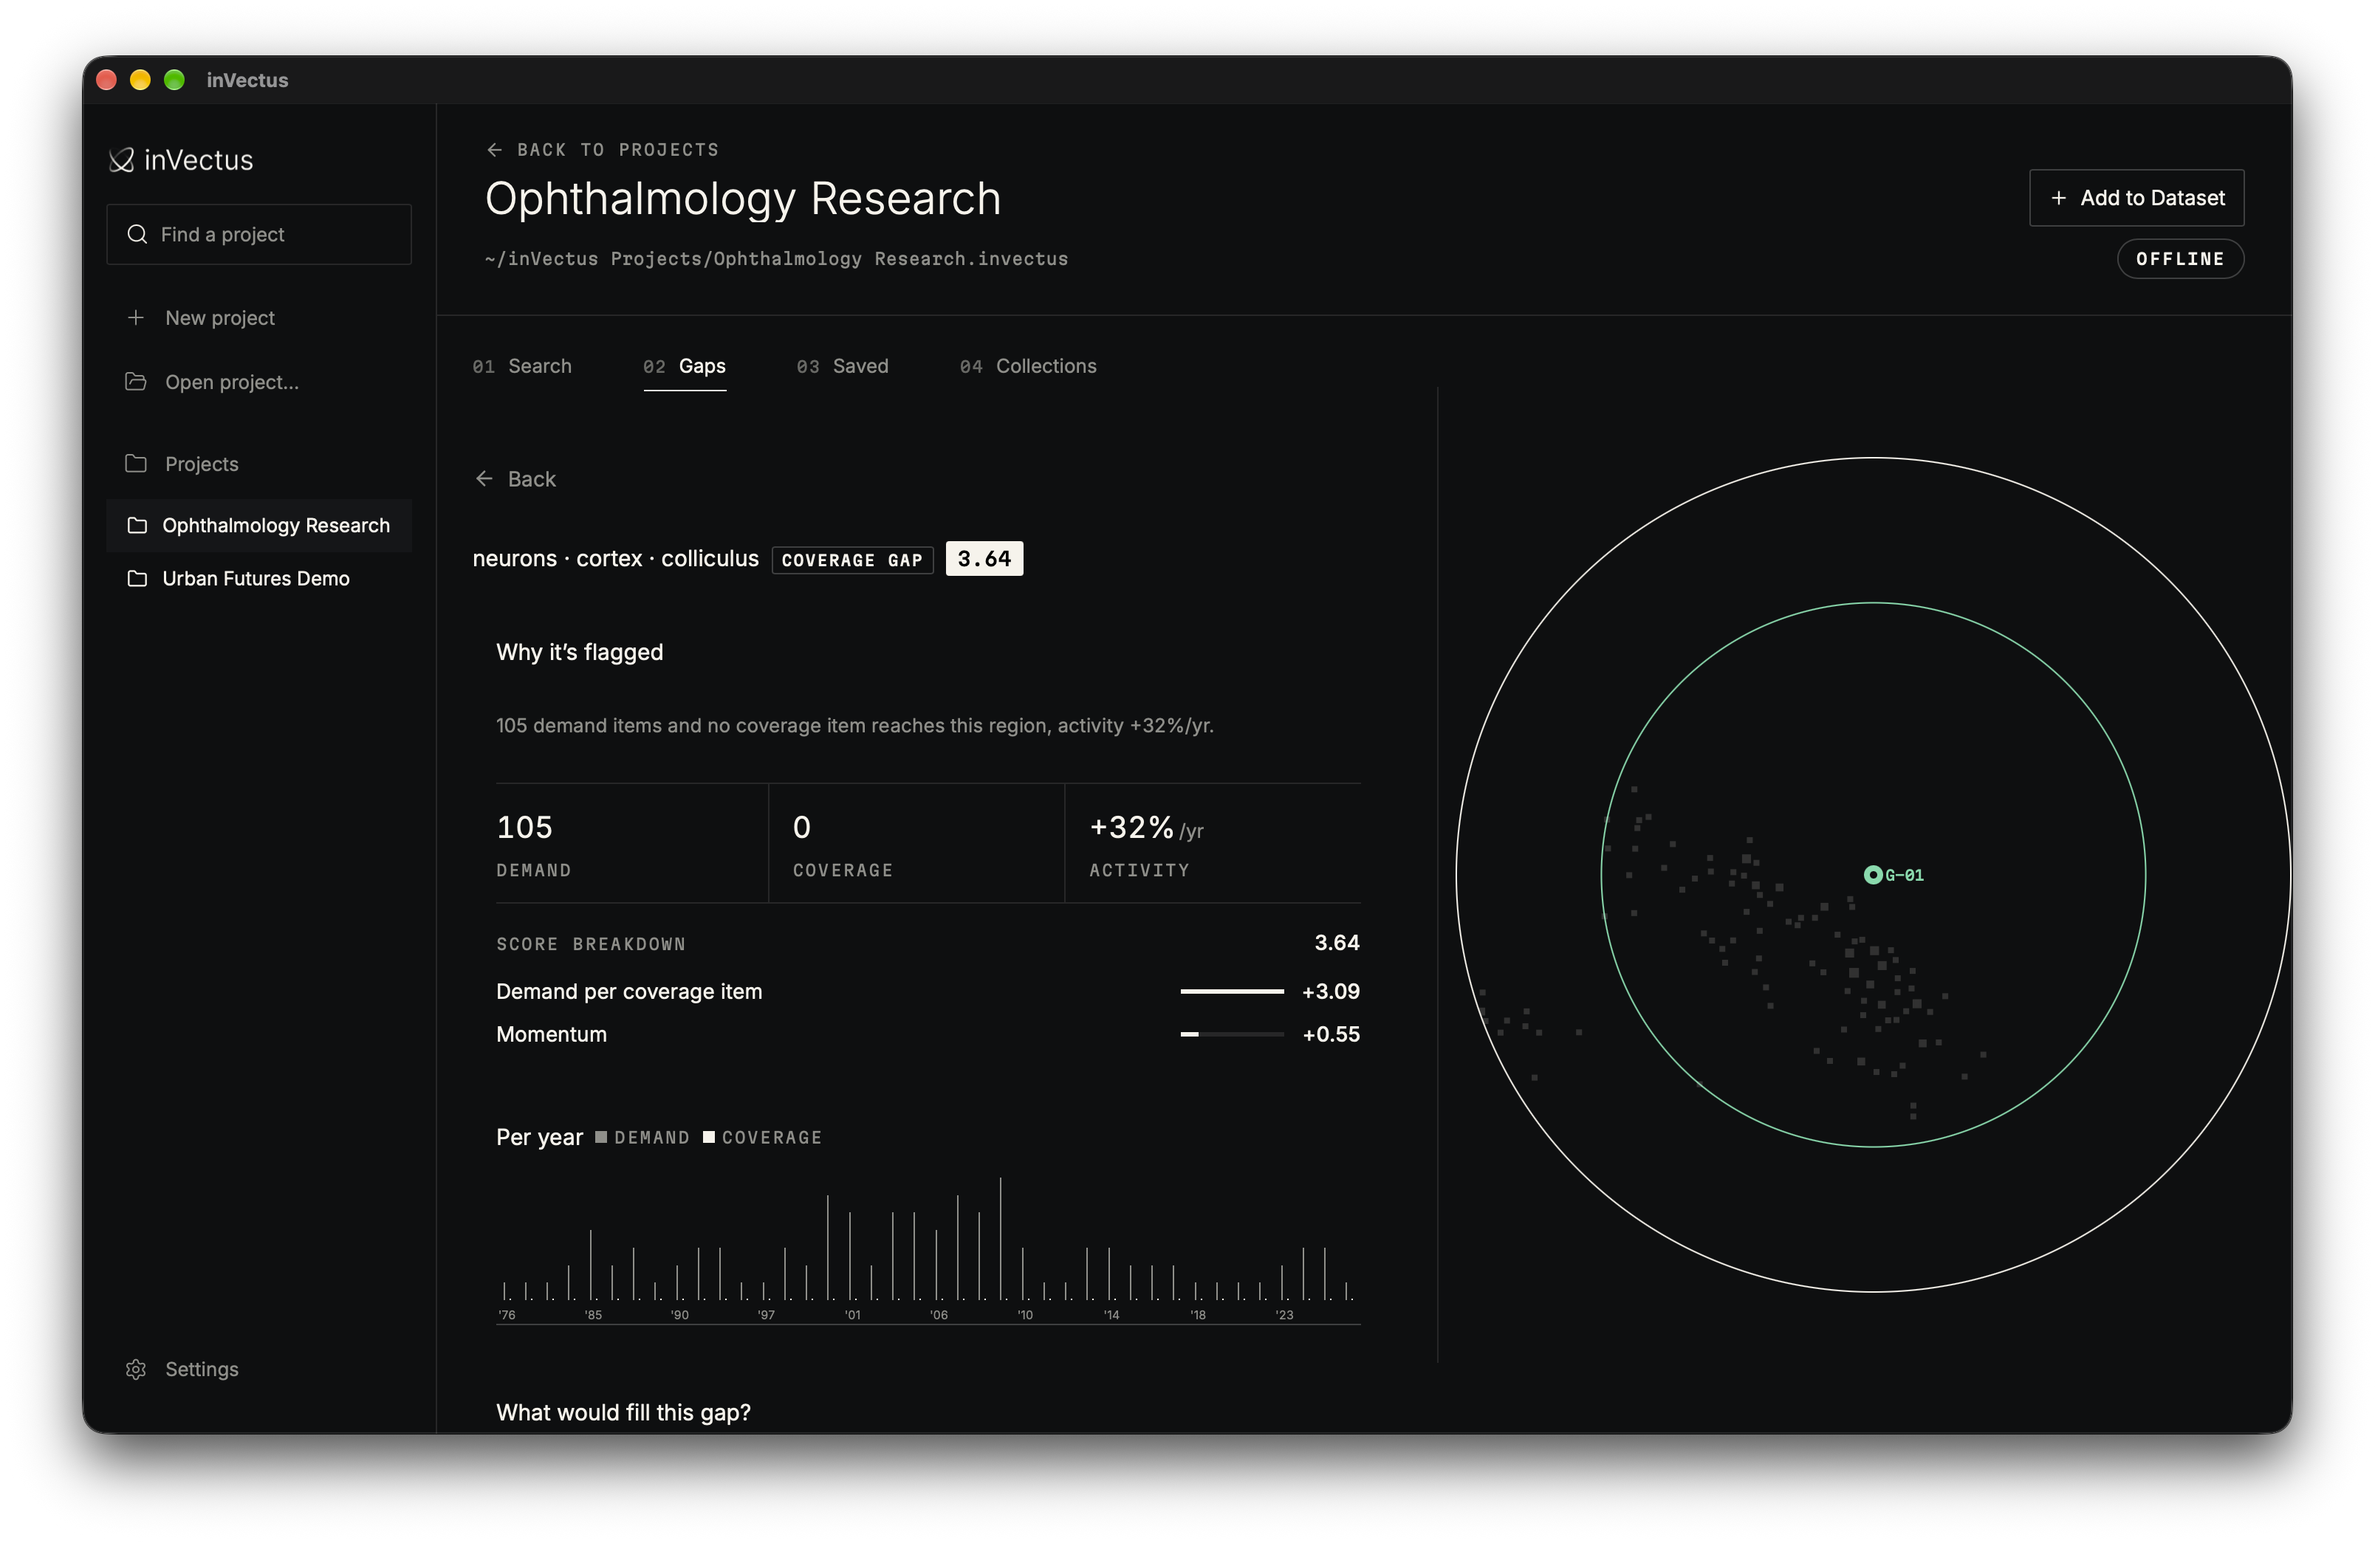
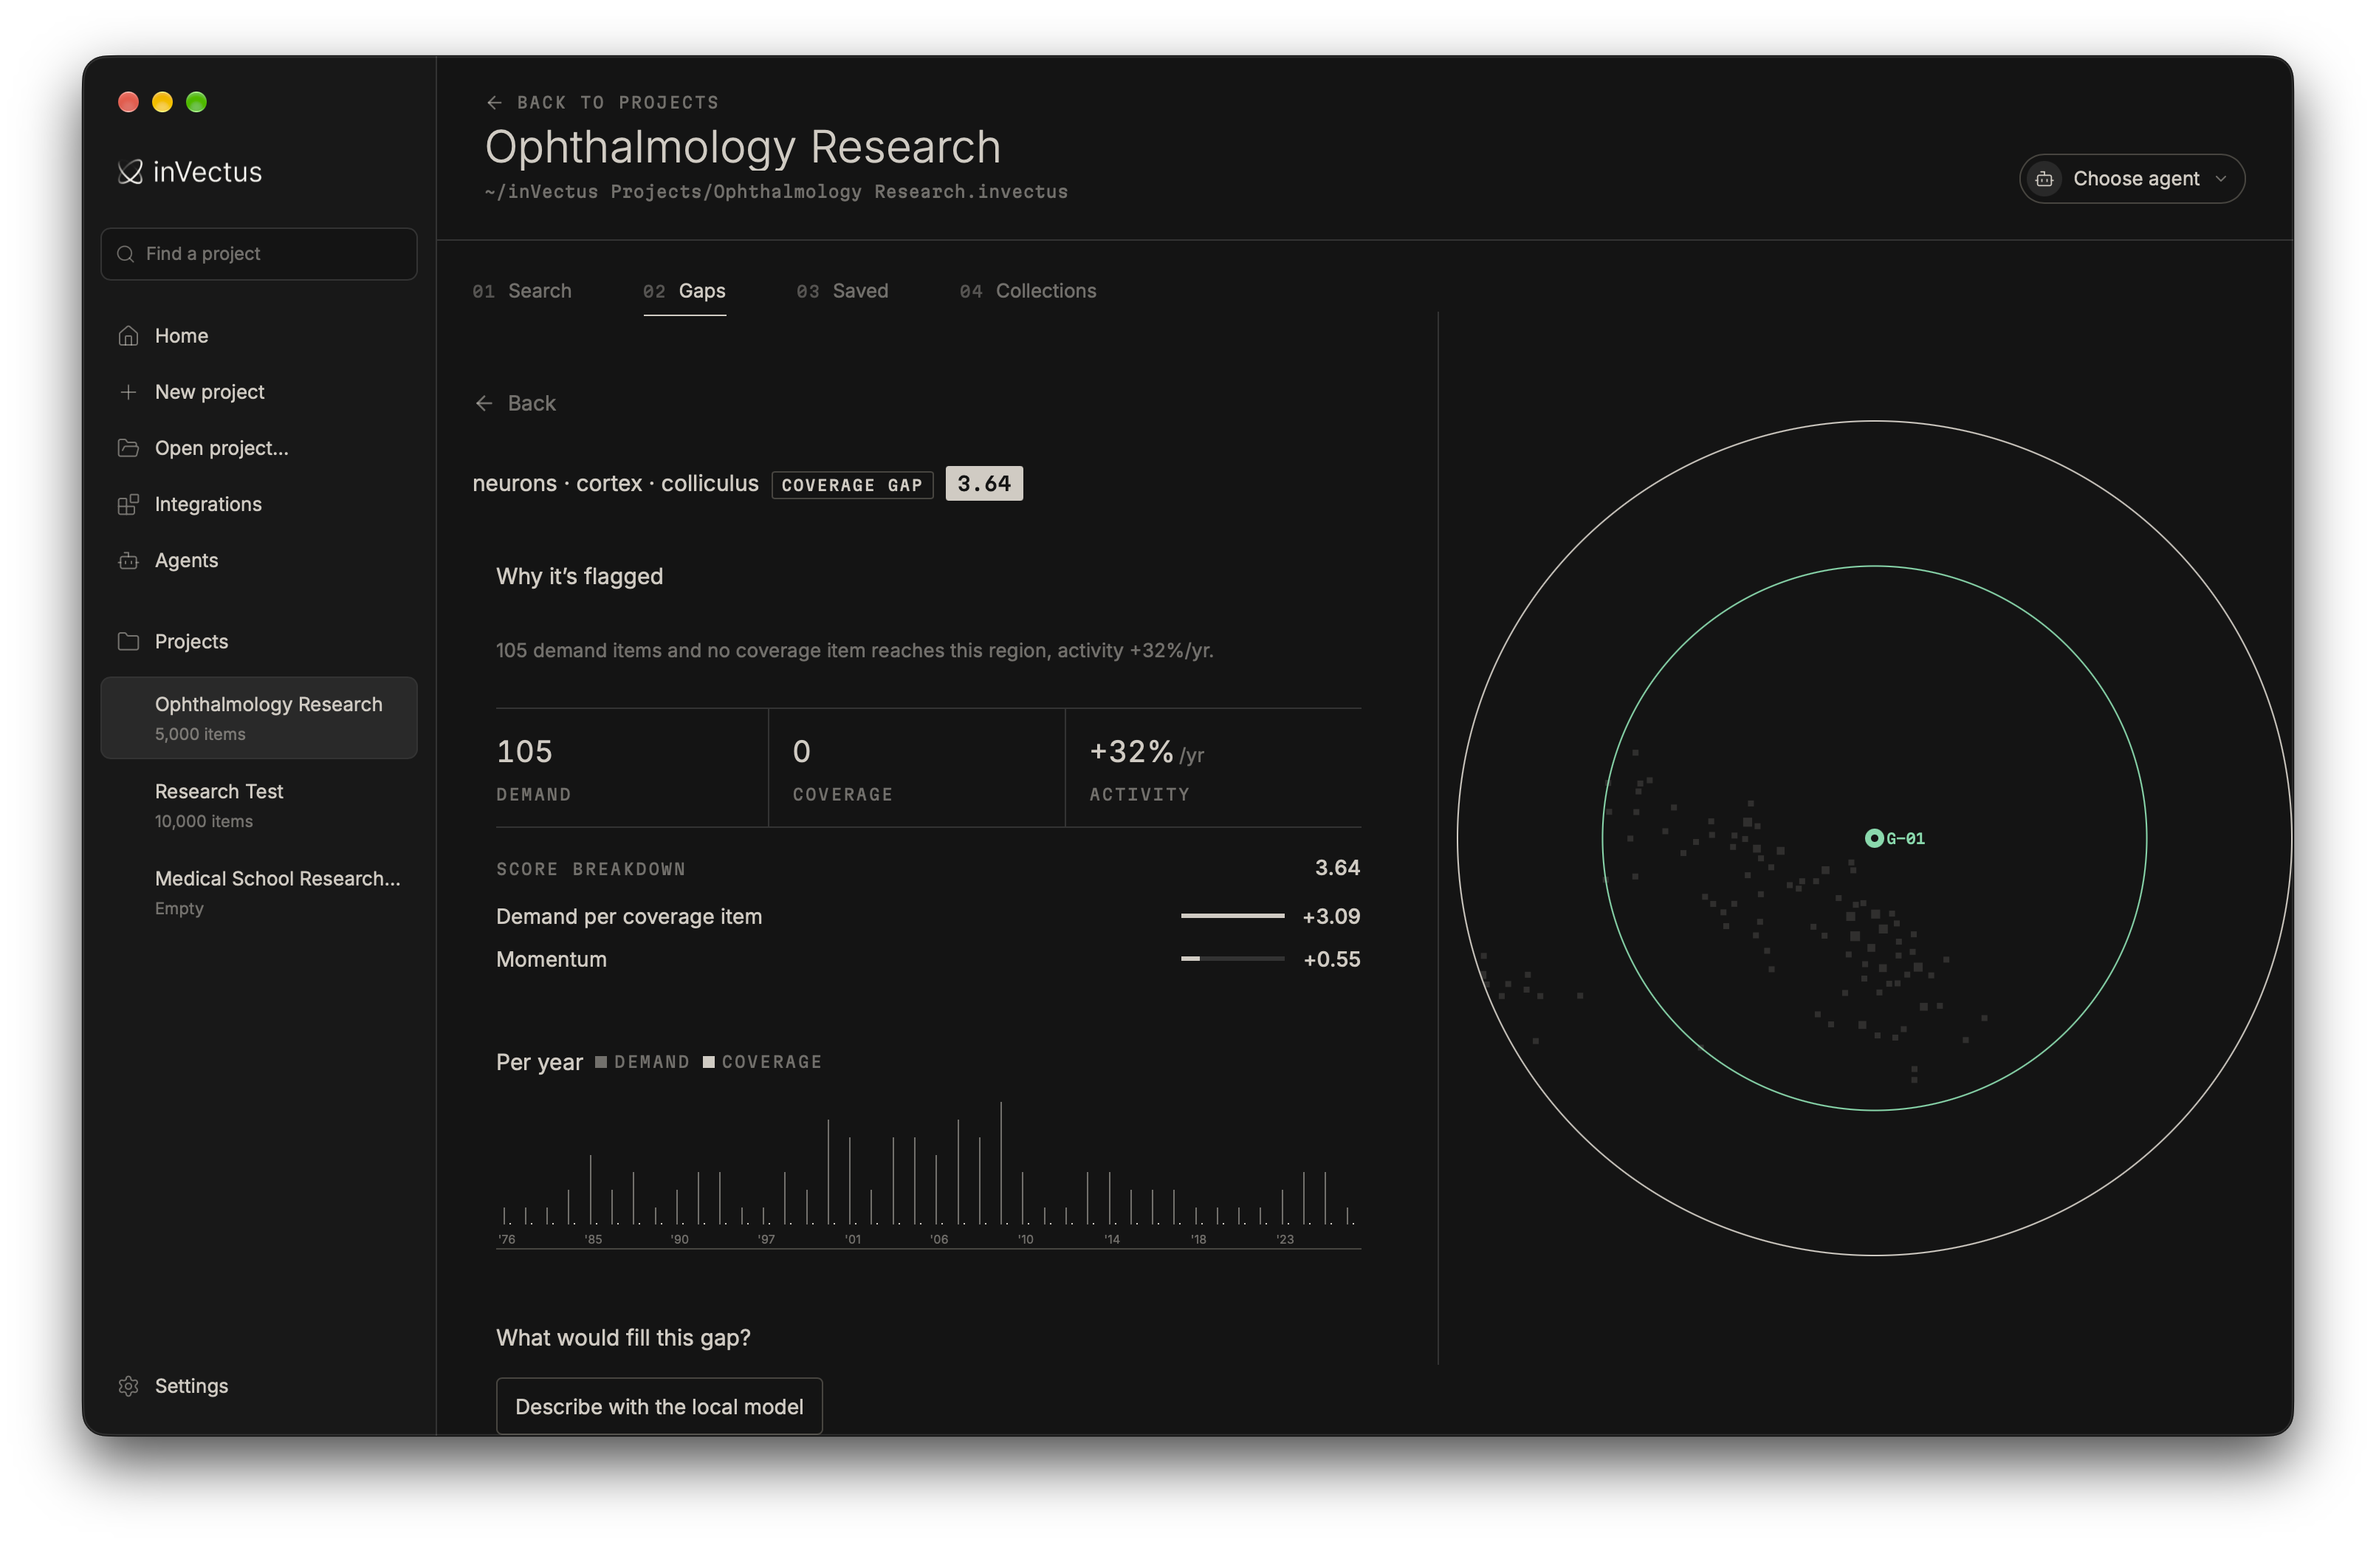
Docs: refresh native screenshots and add app pages to the README

diff --git a/README.md b/README.md
@@ -92,7 +92,15 @@ been checked through them. Paths for those files on Windows and Linux are unveri
 4. Save it for review, record your decision, and optionally check outside sources.
 
 <details>
-<summary>More screenshots: search, source items, collections, and saved decisions</summary>
+<summary>More screenshots: home, gaps, search, source items, collections, setup and settings</summary>
+
+### Pick up where you left off
+
+![Home with the open project's readiness, map and top-ranked gaps](docs/screenshots/home.png)
+
+### Browse ranked gaps
+
+![Ranked gap list with types and review state beside the collection map](docs/screenshots/ophthalmology-gaps.png)
 
 ### Inspect a source item
 
@@ -105,6 +113,18 @@ been checked through them. Paths for those files on Windows and Linux are unveri
 ### Inspect collection readiness
 
 ![The indexed medical collection, role counts and calibration details](docs/screenshots/ophthalmology-collections.png)
+
+### Start a project
+
+![New project setup: a local destination and optional data import](docs/screenshots/new-project.png)
+
+### Bring in data from other tools
+
+![Integrations for spreadsheets, notes, research libraries, forms and databases](docs/screenshots/integrations.png)
+
+### Keep the network off
+
+![Project network settings with offline mode on and outside sources for gap checks](docs/screenshots/settings.png)
 
 ### Keep a decision log
 

diff --git a/PROGRESS.md b/PROGRESS.md
@@ -3067,3 +3067,13 @@ real accounts were used.
 
 - Added `docs/case-study.md`: decisions, measurements and limits, drawn from this ledger (no new
   measurements). Linked from the README's Engineering choices section.
+
+## 2026-11-12 — Refreshed screenshots
+
+- Recaptured native macOS window screenshots from a release build of commit 7c76d45 (bundled
+  frontend), Ophthalmology Research project (5,000 papers), network off. Replaced the
+  ophthalmology search, gap, item and collections images; added home, gaps list, new project,
+  integrations and settings (network) images to the README. EXIF/XMP chunks stripped.
+- Saved still uses the older Urban Futures demo capture: the ophthalmology project has no saved
+  gaps or decisions, and none were created for the screenshot. The Agents page was not captured
+  because it shows the signed-in account email.
